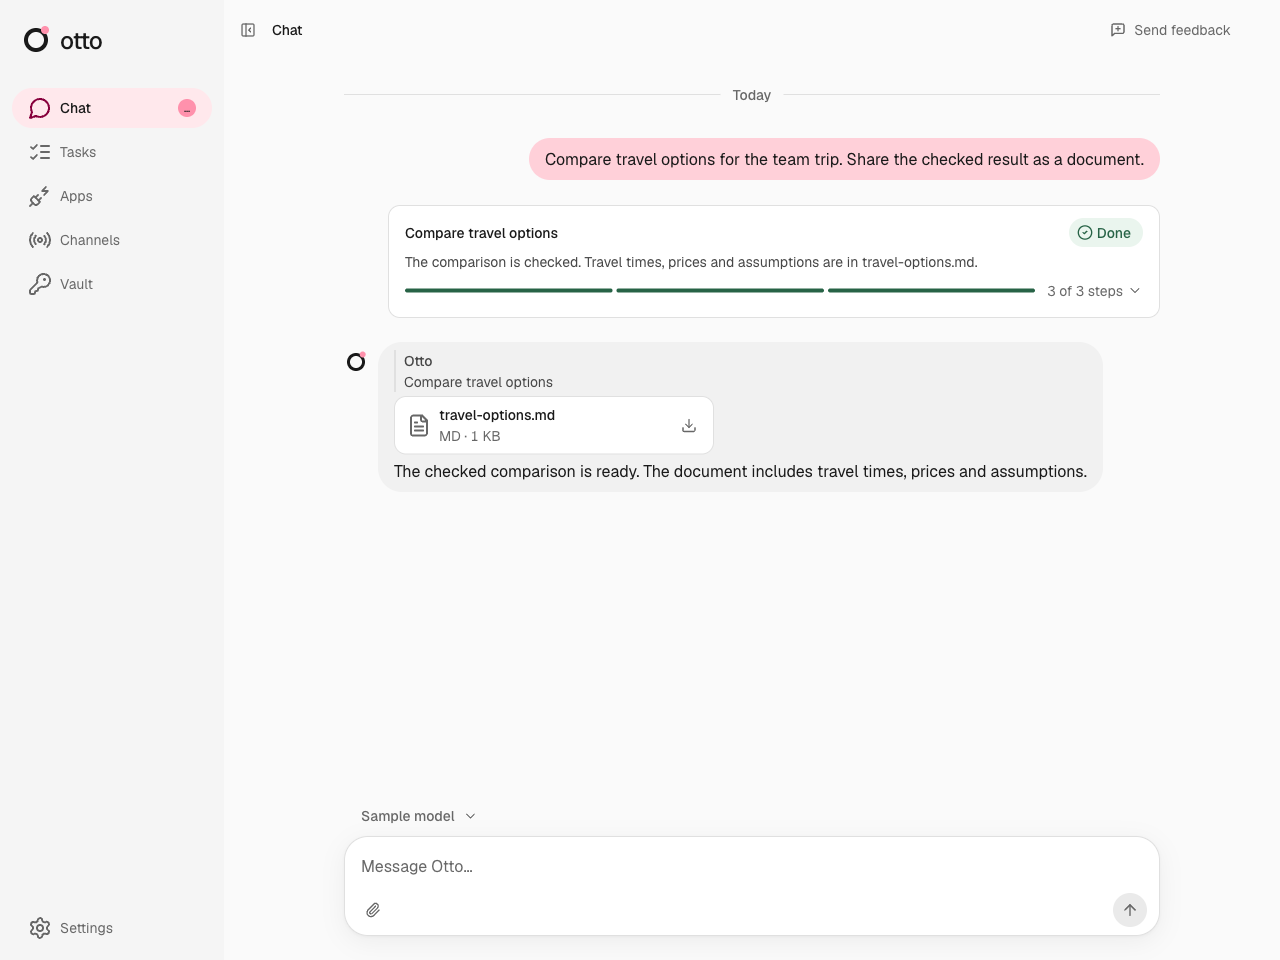
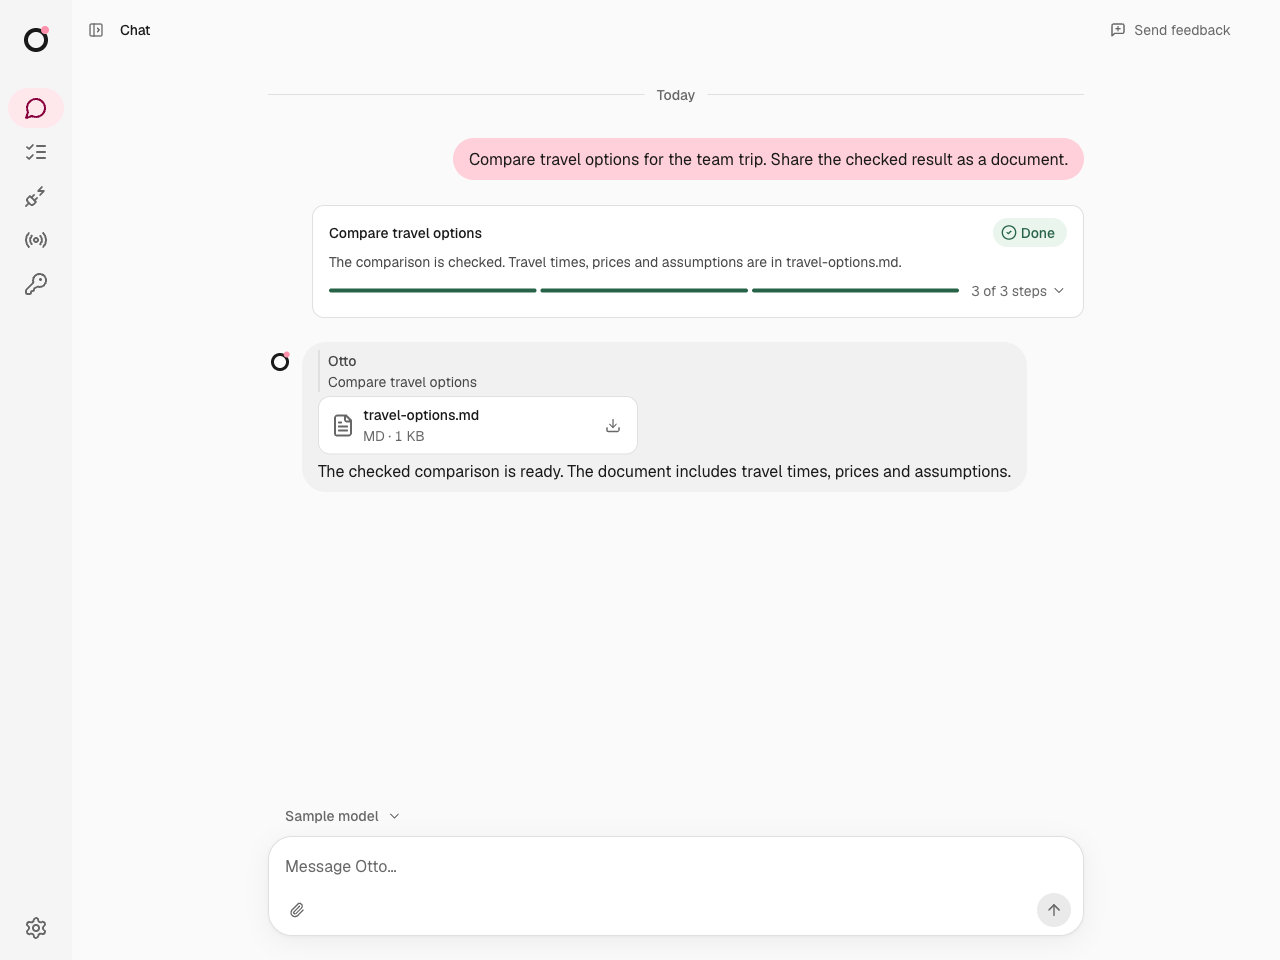
fix(runtime): enforce shell deadlines and document task flows

diff --git a/tests/pi.test.ts b/tests/pi.test.ts
@@ -1456,11 +1456,12 @@ test('a restored durable session closes dangling tool calls before the next prom
 // Sandbox: native tools never touch the host and receive no host environment.
 
 const timeoutShim = `#!/usr/bin/perl
+shift if $ARGV[0] eq '--verbose';
 shift, shift if $ARGV[0] eq '-k';
 my $seconds = shift;
 my $pid = fork;
 if (!$pid) { exec @ARGV; exit 127 }
-$SIG{ALRM} = sub { kill 'KILL', $pid; exit 124 };
+$SIG{ALRM} = sub { print STDERR "timeout\\n"; kill 'KILL', $pid; exit 124 };
 alarm $seconds;
 waitpid $pid, 0;
 exit($? >> 8);
@@ -1733,6 +1734,38 @@ test('bash preserves shell data flows and bounds unavailable RTK before executin
   assert.equal(await readFile(join(directory, 'executions'), 'utf8'), 'run\n');
   assert.equal(existsSync(join(directory, 'rewrite-completed')), false);
   await assert.rejects(run('bash', { command: 'sleep 2', timeout: 1 }), /timed out/);
+  assert.match(await run('bash', { command: 'if' }), /syntax error/);
+  if (process.platform === 'linux') {
+    await rm(join(bin, 'timeout'));
+    await rm(join(bin, 'rtk'));
+    assert.match(await run('bash', { command: 'kill -KILL $$' }), /Command exited with code 137/);
+    t.after(async () => {
+      const pid = Number(await readFile(join(directory, 'timeout-pid'), 'utf8').catch(() => '0'));
+      if (pid > 0) {
+        try {
+          process.kill(pid, 'SIGKILL');
+        } catch {}
+      }
+    });
+    await assert.rejects(
+      run('bash', {
+        command: `trap '' TERM; printf '%s' "$$" > timeout-pid; sleep 30`,
+        timeout: 1,
+      }),
+      /timed out/,
+    );
+    const pid = Number(await readFile(join(directory, 'timeout-pid'), 'utf8'));
+    const deadline = Date.now() + 2000;
+    while (Date.now() < deadline) {
+      try {
+        process.kill(pid, 0);
+      } catch {
+        return;
+      }
+      await setTimeout(20);
+    }
+    assert.fail('The command survived its timeout.');
+  }
 });
 
 // Runtime: credential guard in observations, one active turn, stop and shutdown drain.

diff --git a/src/providers/pi/sandbox.ts b/src/providers/pi/sandbox.ts
@@ -234,8 +234,10 @@ export function createSandbox(workspace: WorkspaceSession, timeZone?: string) {
             `if { [ "$otto_rewrite_code" -eq 0 ] || [ "$otto_rewrite_code" -eq 3 ]; } && [ -n "$otto_rewrite" ]${invocationWrapper.test(command) ? ' && [ "$otto_rewrite" = "rtk $otto_command" ]' : ''}; then otto_command=$otto_rewrite; fi`,
           ]
         : []),
-      `timeout -k 5 ${seconds} bash -c 'bash -c "$1" > "$2" 2>&1 < /dev/null; code=$?; printf "%s" "$code" > "$3"; exit "$code"' otto "$otto_command" ${quote(file)} ${quote(`${file}.exit`)}`,
+      `{ timeout --verbose -k 5 ${seconds} bash -c ${quote(`exec > ${quote(file)} 2>&1 < /dev/null\n`)}"$otto_command" 2> ${quote(`${file}.timeout`)}; } 2>> ${quote(file)}`,
       'code=$?',
+      'timed_out=0',
+      `if { [ "$code" -eq 124 ] || [ "$code" -eq 137 ]; } && [ -s ${quote(`${file}.timeout`)} ]; then timed_out=1; else cat -- ${quote(`${file}.timeout`)} >> ${quote(file)}; fi`,
       `size=$(($(wc -c < ${quote(file)})))`,
       `if [ "$size" -gt ${streamBytes} ]; then`,
       `  head -c ${streamBytes / 2} ${quote(file)}`,
@@ -243,8 +245,8 @@ export function createSandbox(workspace: WorkspaceSession, timeZone?: string) {
       `  tail -c ${streamBytes / 2} ${quote(file)}`,
       `  printf '\\n\\n[Complete output (%s bytes): %s]\\n' "$size" ${quote(file)}`,
       `else cat -- ${quote(file)}; rm -f -- ${quote(file)}; fi`,
-      `if [ "$code" -eq 124 ] && [ ! -f ${quote(`${file}.exit`)} ]; then printf %s ${quote(marker)}; fi`,
-      `rm -f -- ${quote(`${file}.exit`)}`,
+      `if [ "$timed_out" -eq 1 ]; then printf %s ${quote(marker)}; fi`,
+      `rm -f -- ${quote(`${file}.timeout`)}`,
       'exit $code',
     ].join('\n');
     const chunks: Buffer[] = [];

diff --git a/docs/src/content/docs/use/tasks.md b/docs/src/content/docs/use/tasks.md
@@ -34,15 +34,37 @@ The same compact task preview appears in chat and on the Tasks page. It shows th
 
 ![Two compact task previews in chat, one Working and one Needs you.](../../../assets/screens/task-sessions-chat.png)
 
+## Reply or stop one task
+
 Reply to a task message to continue that task. You can reply to its first message, a question or a result. Telegram and WhatsApp use their reply controls. A message without a reply target goes to the main chat. Otto can send that message to one or more tasks when your intent is clear. If the target is unclear, Otto asks.
 
 An owner update has a revision. **Owner update queued** means the task has not received it at an execution boundary. An outside action that has already started can still finish. Other tasks continue while one task waits for your answer.
 
 Open a task preview and select **Stop** to stop that task and its helpers. Other tasks continue. The main Stop control stops active work and closes all open tasks. Reset also closes the old thread's open tasks.
 
+## Inspect task activity
+
+On the **Tasks** page, open a preview and select **Show activity**. The details show planned steps, tool activity and helper activity. Select **Show in chat** to return to the task's message.
+
+![An expanded task with steps, activity from tools and helpers, and task controls.](../../../assets/screens/task-sessions-activity.png)
+
+## Read task results
+
 Complete reports can be Markdown documents. Otto sends the file and a short result to the conversation. A follow-up, such as completing a sign-in, continues the same saved session.
 
+![A completed task with a Markdown document result in chat.](../../../assets/screens/task-sessions-result.png)
+
+Select the file to read the document in Otto. Select **Download** to save it. Press **Escape** to close the preview.
+
+![A task result open as a Markdown document with headings, a comparison table and assumptions.](../../../assets/screens/task-sessions-document.png)
+
 A finished card has **Schedule task**, which turns the same work into a [schedule](/use/schedules/).
+
+## Use tasks on mobile
+
+Mobile web uses the same compact previews. Open a preview to read the steps, reply or stop one task.
+
+![Compact task previews in mobile web chat.](../../../assets/screens/task-sessions-mobile.png)
 
 ## Telegram without a task page
 
